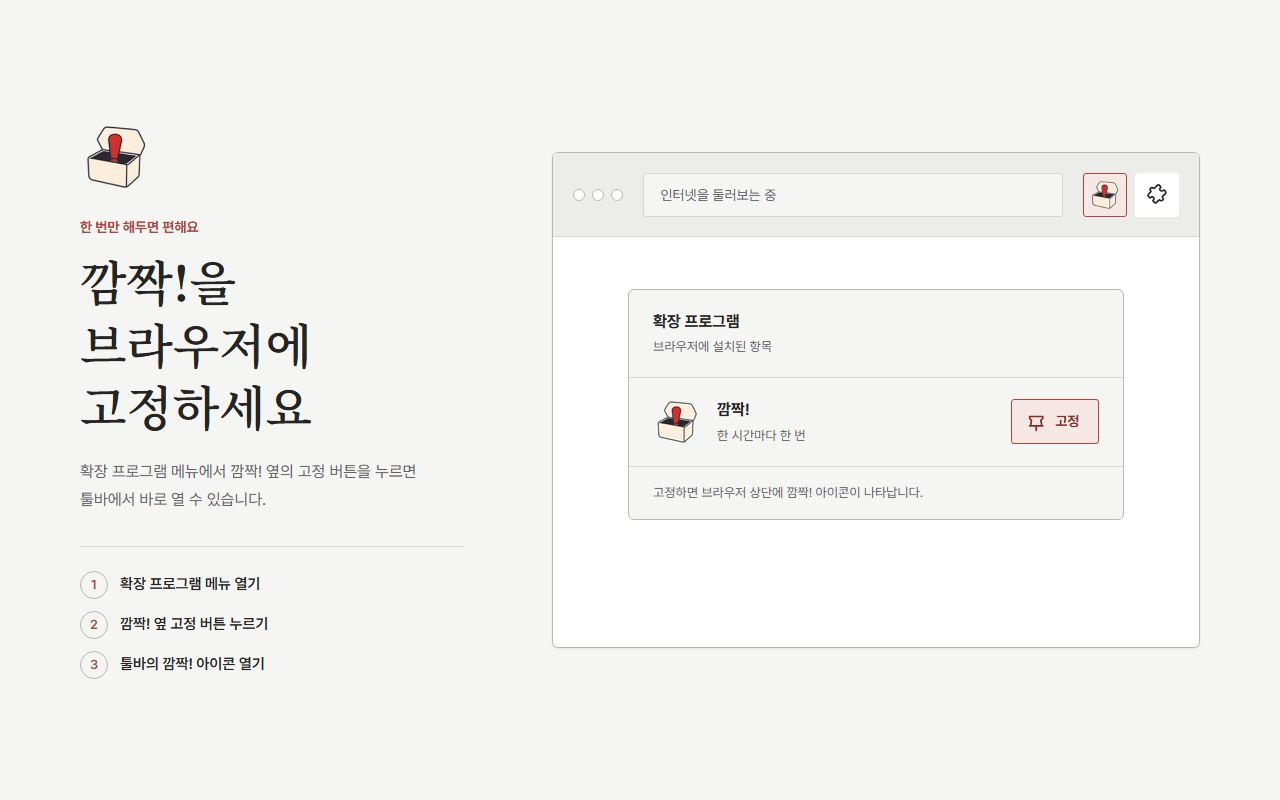
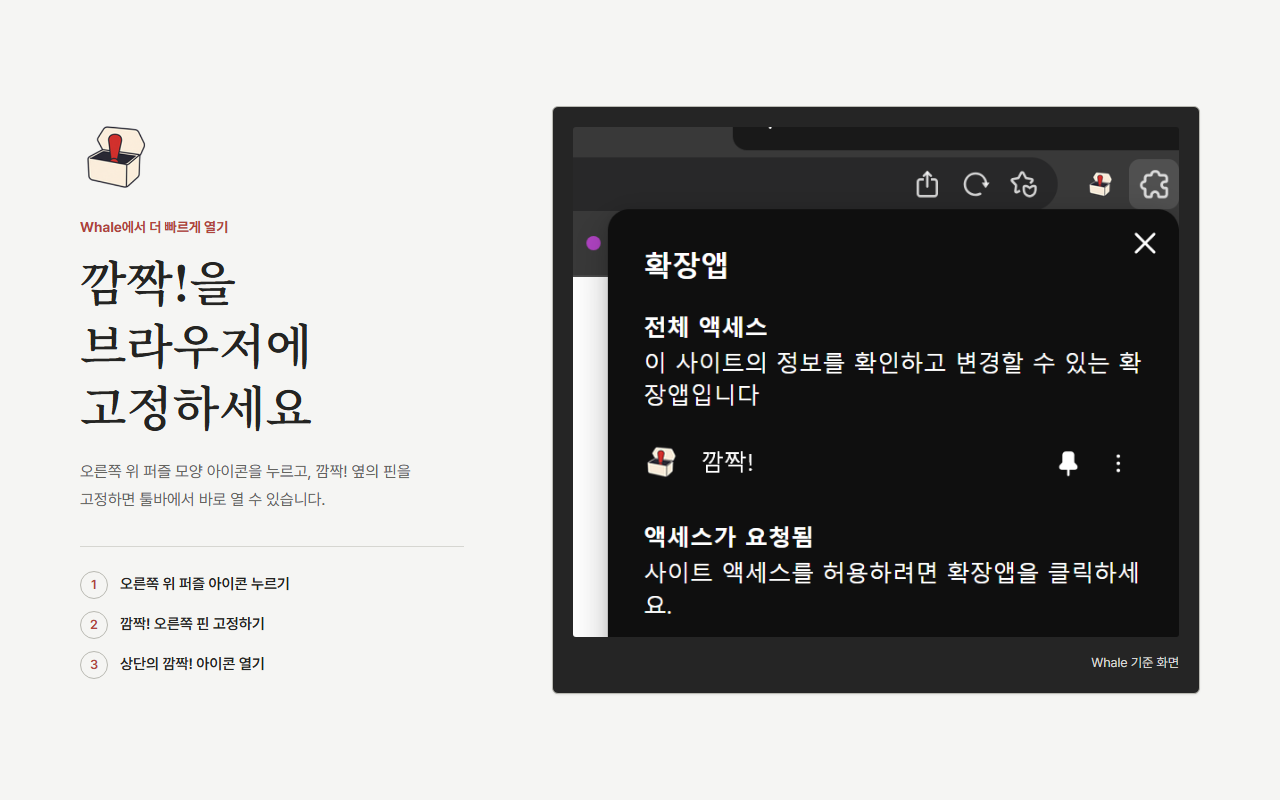
docs: Whale 실제 화면으로 고정 안내 교체

diff --git a/docs/store/capture/pin.html b/docs/store/capture/pin.html
@@ -11,51 +11,20 @@
     <main class="pin-guide">
       <section class="pin-guide-copy">
         <img src="../../../assets/icons/icon128.png" width="128" height="128" alt="">
-        <p class="pin-guide-eyebrow">한 번만 해두면 편해요</p>
+        <p class="pin-guide-eyebrow">Whale에서 더 빠르게 열기</p>
         <h1>깜짝!을<br>브라우저에 고정하세요</h1>
-        <p class="pin-guide-description">확장 프로그램 메뉴에서 깜짝! 옆의 고정 버튼을 누르면 툴바에서 바로 열 수 있습니다.</p>
+        <p class="pin-guide-description">오른쪽 위 퍼즐 모양 아이콘을 누르고, 깜짝! 옆의 핀을 고정하면 툴바에서 바로 열 수 있습니다.</p>
         <ol class="pin-guide-steps">
-          <li><span>1</span>확장 프로그램 메뉴 열기</li>
-          <li><span>2</span>깜짝! 옆 고정 버튼 누르기</li>
-          <li><span>3</span>툴바의 깜짝! 아이콘 열기</li>
+          <li><span>1</span>오른쪽 위 퍼즐 아이콘 누르기</li>
+          <li><span>2</span>깜짝! 오른쪽 핀 고정하기</li>
+          <li><span>3</span>상단의 깜짝! 아이콘 열기</li>
         </ol>
       </section>
 
-      <section class="browser-pin-demo" aria-label="확장 프로그램 고정 방법 예시">
-        <div class="browser-toolbar">
-          <div class="browser-controls" aria-hidden="true"><span></span><span></span><span></span></div>
-          <div class="browser-address">인터넷을 둘러보는 중</div>
-          <div class="browser-actions">
-            <div class="toolbar-app is-pinned">
-              <img src="../../../assets/icons/icon48.png" width="32" height="32" alt="">
-            </div>
-            <div class="extension-trigger" aria-hidden="true">
-              <svg viewBox="0 0 24 24"><path d="M19.4 7.6a1 1 0 0 0-1 .2 2 2 0 1 1-2.8-2.8 1 1 0 0 0 .2-1L14.6 2.8a2 2 0 0 0-2.8 0L9 5.6a1 1 0 0 1-1 .2A2 2 0 1 0 5.2 8.6a1 1 0 0 1-.2 1l-2.2 2.2a2 2 0 0 0 0 2.8l1.2 1.2a1 1 0 0 0 1-.2 2 2 0 1 1 2.8 2.8 1 1 0 0 0-.2 1l1.2 1.2a2 2 0 0 0 2.8 0l2.2-2.2a1 1 0 0 1 1-.2 2 2 0 1 0 2.8-2.8 1 1 0 0 1 .2-1l2.8-2.8a2 2 0 0 0 0-2.8z"/></svg>
-            </div>
-          </div>
-        </div>
-
-        <div class="extension-menu">
-          <div class="extension-menu-head">
-            <div>
-              <strong>확장 프로그램</strong>
-              <span>브라우저에 설치된 항목</span>
-            </div>
-          </div>
-          <div class="extension-row">
-            <img src="../../../assets/icons/icon48.png" width="48" height="48" alt="">
-            <div class="extension-row-copy">
-              <strong>깜짝!</strong>
-              <span>한 시간마다 한 번</span>
-            </div>
-            <div class="pin-action">
-              <svg viewBox="0 0 24 24" aria-hidden="true"><path d="M12 17v5M5 17h14M6 17l1-6-2-2V7h14v2l-2 2 1 6H6z"/></svg>
-              <span>고정</span>
-            </div>
-          </div>
-          <p class="extension-menu-note">고정하면 브라우저 상단에 깜짝! 아이콘이 나타납니다.</p>
-        </div>
-      </section>
+      <figure class="whale-pin-demo">
+        <img src="../assets/source/whale-pin-menu.png" width="679" height="571" alt="Whale 확장앱 메뉴에서 깜짝! 오른쪽의 핀을 고정하는 화면">
+        <figcaption>Whale 기준 화면</figcaption>
+      </figure>
     </main>
   </body>
 </html>

diff --git a/docs/store/capture/capture.css b/docs/store/capture/capture.css
@@ -376,3 +376,27 @@ body {
   border-top: 1px solid var(--color-border);
   line-height: 1.6;
 }
+
+.whale-pin-demo {
+  align-self: center;
+  margin: 0;
+  padding: var(--space-5);
+  border: 1px solid var(--color-border-strong);
+  border-radius: var(--radius-md);
+  background: #252525;
+  box-shadow: var(--shadow-sm);
+}
+
+.whale-pin-demo img {
+  display: block;
+  width: 100%;
+  height: auto;
+  border-radius: var(--radius-sm);
+}
+
+.whale-pin-demo figcaption {
+  margin-top: var(--space-4);
+  color: #d8d8d4;
+  font-size: 0.8125rem;
+  text-align: right;
+}

diff --git a/README.md b/README.md
@@ -27,13 +27,13 @@
 
 ## 처음 사용하기
 
-설치한 뒤 브라우저 상단의 확장 프로그램 메뉴를 열고 `깜짝!`을 고정해두면 언제든 바로 열 수 있습니다.
+설치한 뒤 브라우저 상단의 확장 프로그램 메뉴를 열고 `깜짝!`을 고정해두면 언제든 바로 열 수 있습니다. 아래 이미지는 Whale 기준이며 Chrome에서도 확장 프로그램 메뉴에서 같은 방식으로 고정할 수 있습니다.
 
 ![확장 프로그램 메뉴에서 깜짝!을 고정하는 방법](docs/store/assets/screenshots/05-pin-extension.png)
 
-1. 브라우저 상단에서 확장 프로그램 메뉴를 엽니다.
-2. 목록에서 `깜짝!`을 찾고 고정 버튼을 누릅니다.
-3. 툴바에 나타난 `깜짝!` 아이콘을 눌러 상자를 엽니다.
+1. Whale 오른쪽 위의 퍼즐 모양 아이콘을 누릅니다.
+2. `깜짝!` 오른쪽에 있는 핀을 눌러 고정합니다.
+3. 브라우저 상단에 나타난 `깜짝!` 아이콘을 눌러 상자를 엽니다.
 
 나온 결과는 도감에 자동으로 기록됩니다. 버튼은 한 시간 뒤에 다시 누를 수 있고, 발견한 현상은 도감에서 언제든 다시 볼 수 있습니다.
 

diff --git a/KANBAN.md b/KANBAN.md
@@ -40,6 +40,7 @@ _현재 막힌 작업 없음._
 
 ## Recently Done
 
+- [x] `P1-12` Whale 실제 UI로 확장 프로그램 고정 안내 이미지 교체
 - [x] `P1-11` README 간소화 및 확장 프로그램 고정 안내 이미지 추가
 - [x] `P1-08` Chrome·Whale 스토어 등록 및 심사 요청
   - Chrome Web Store 심사 중, Whale 스토어 출시 완료
